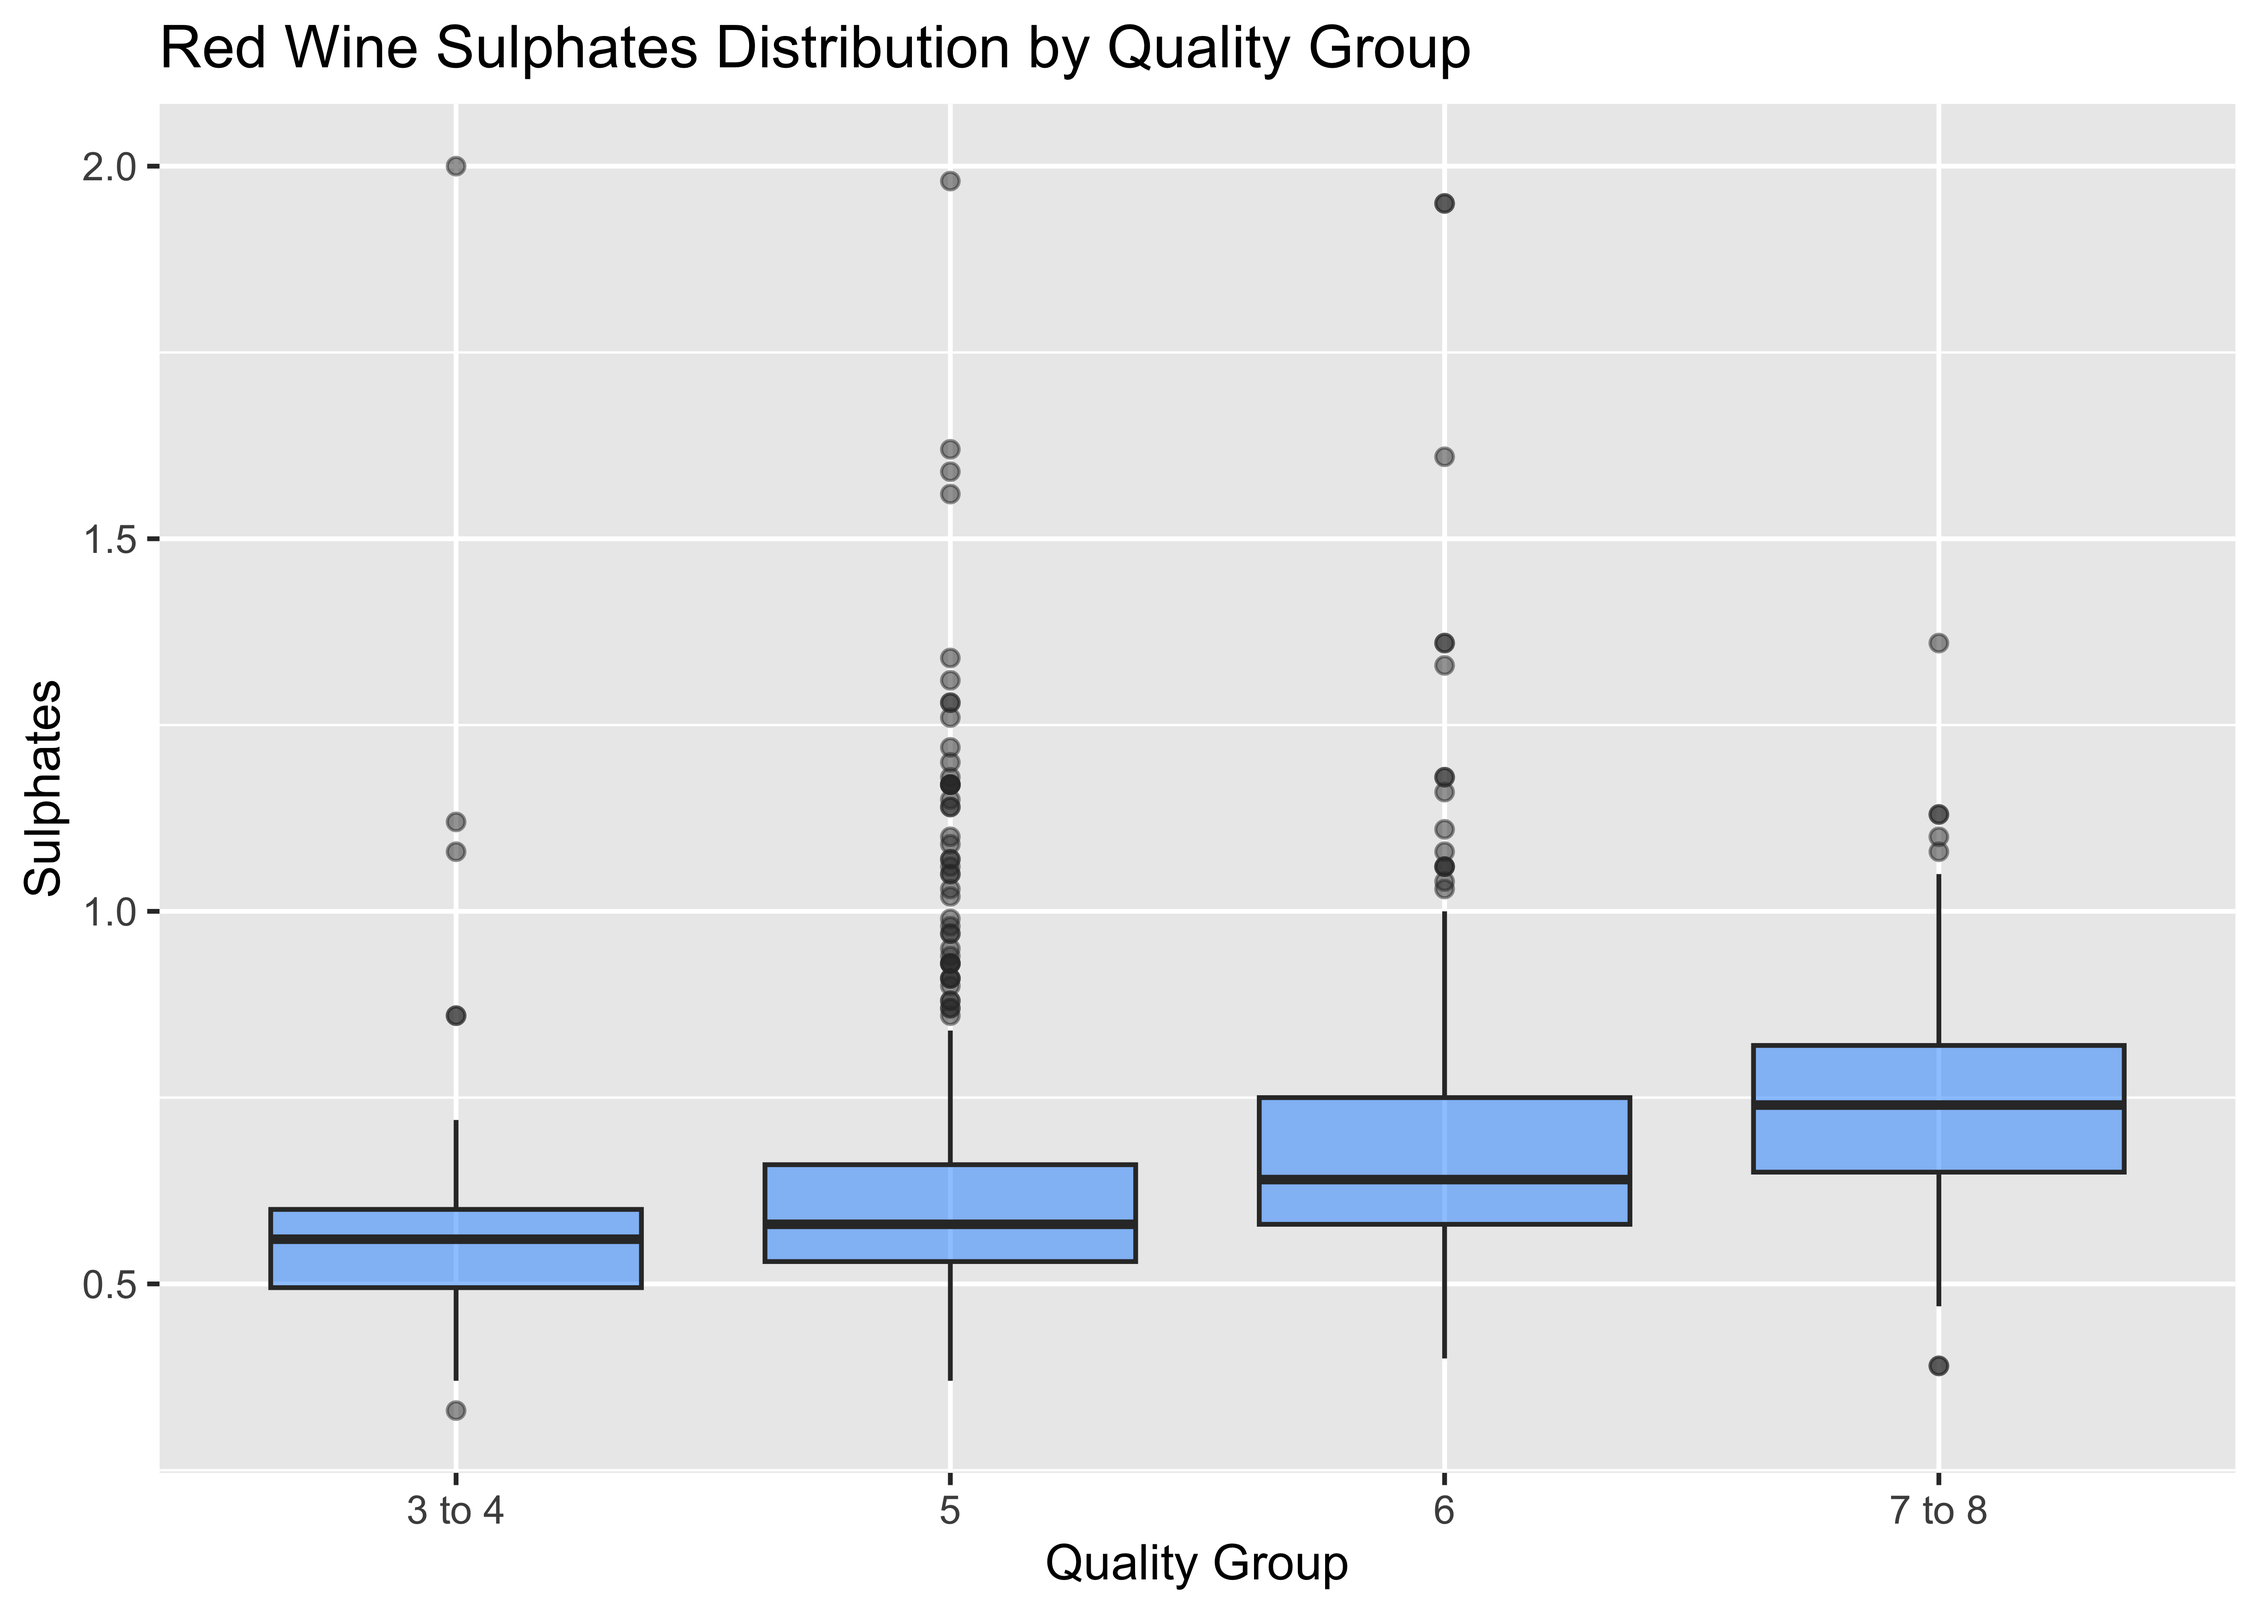
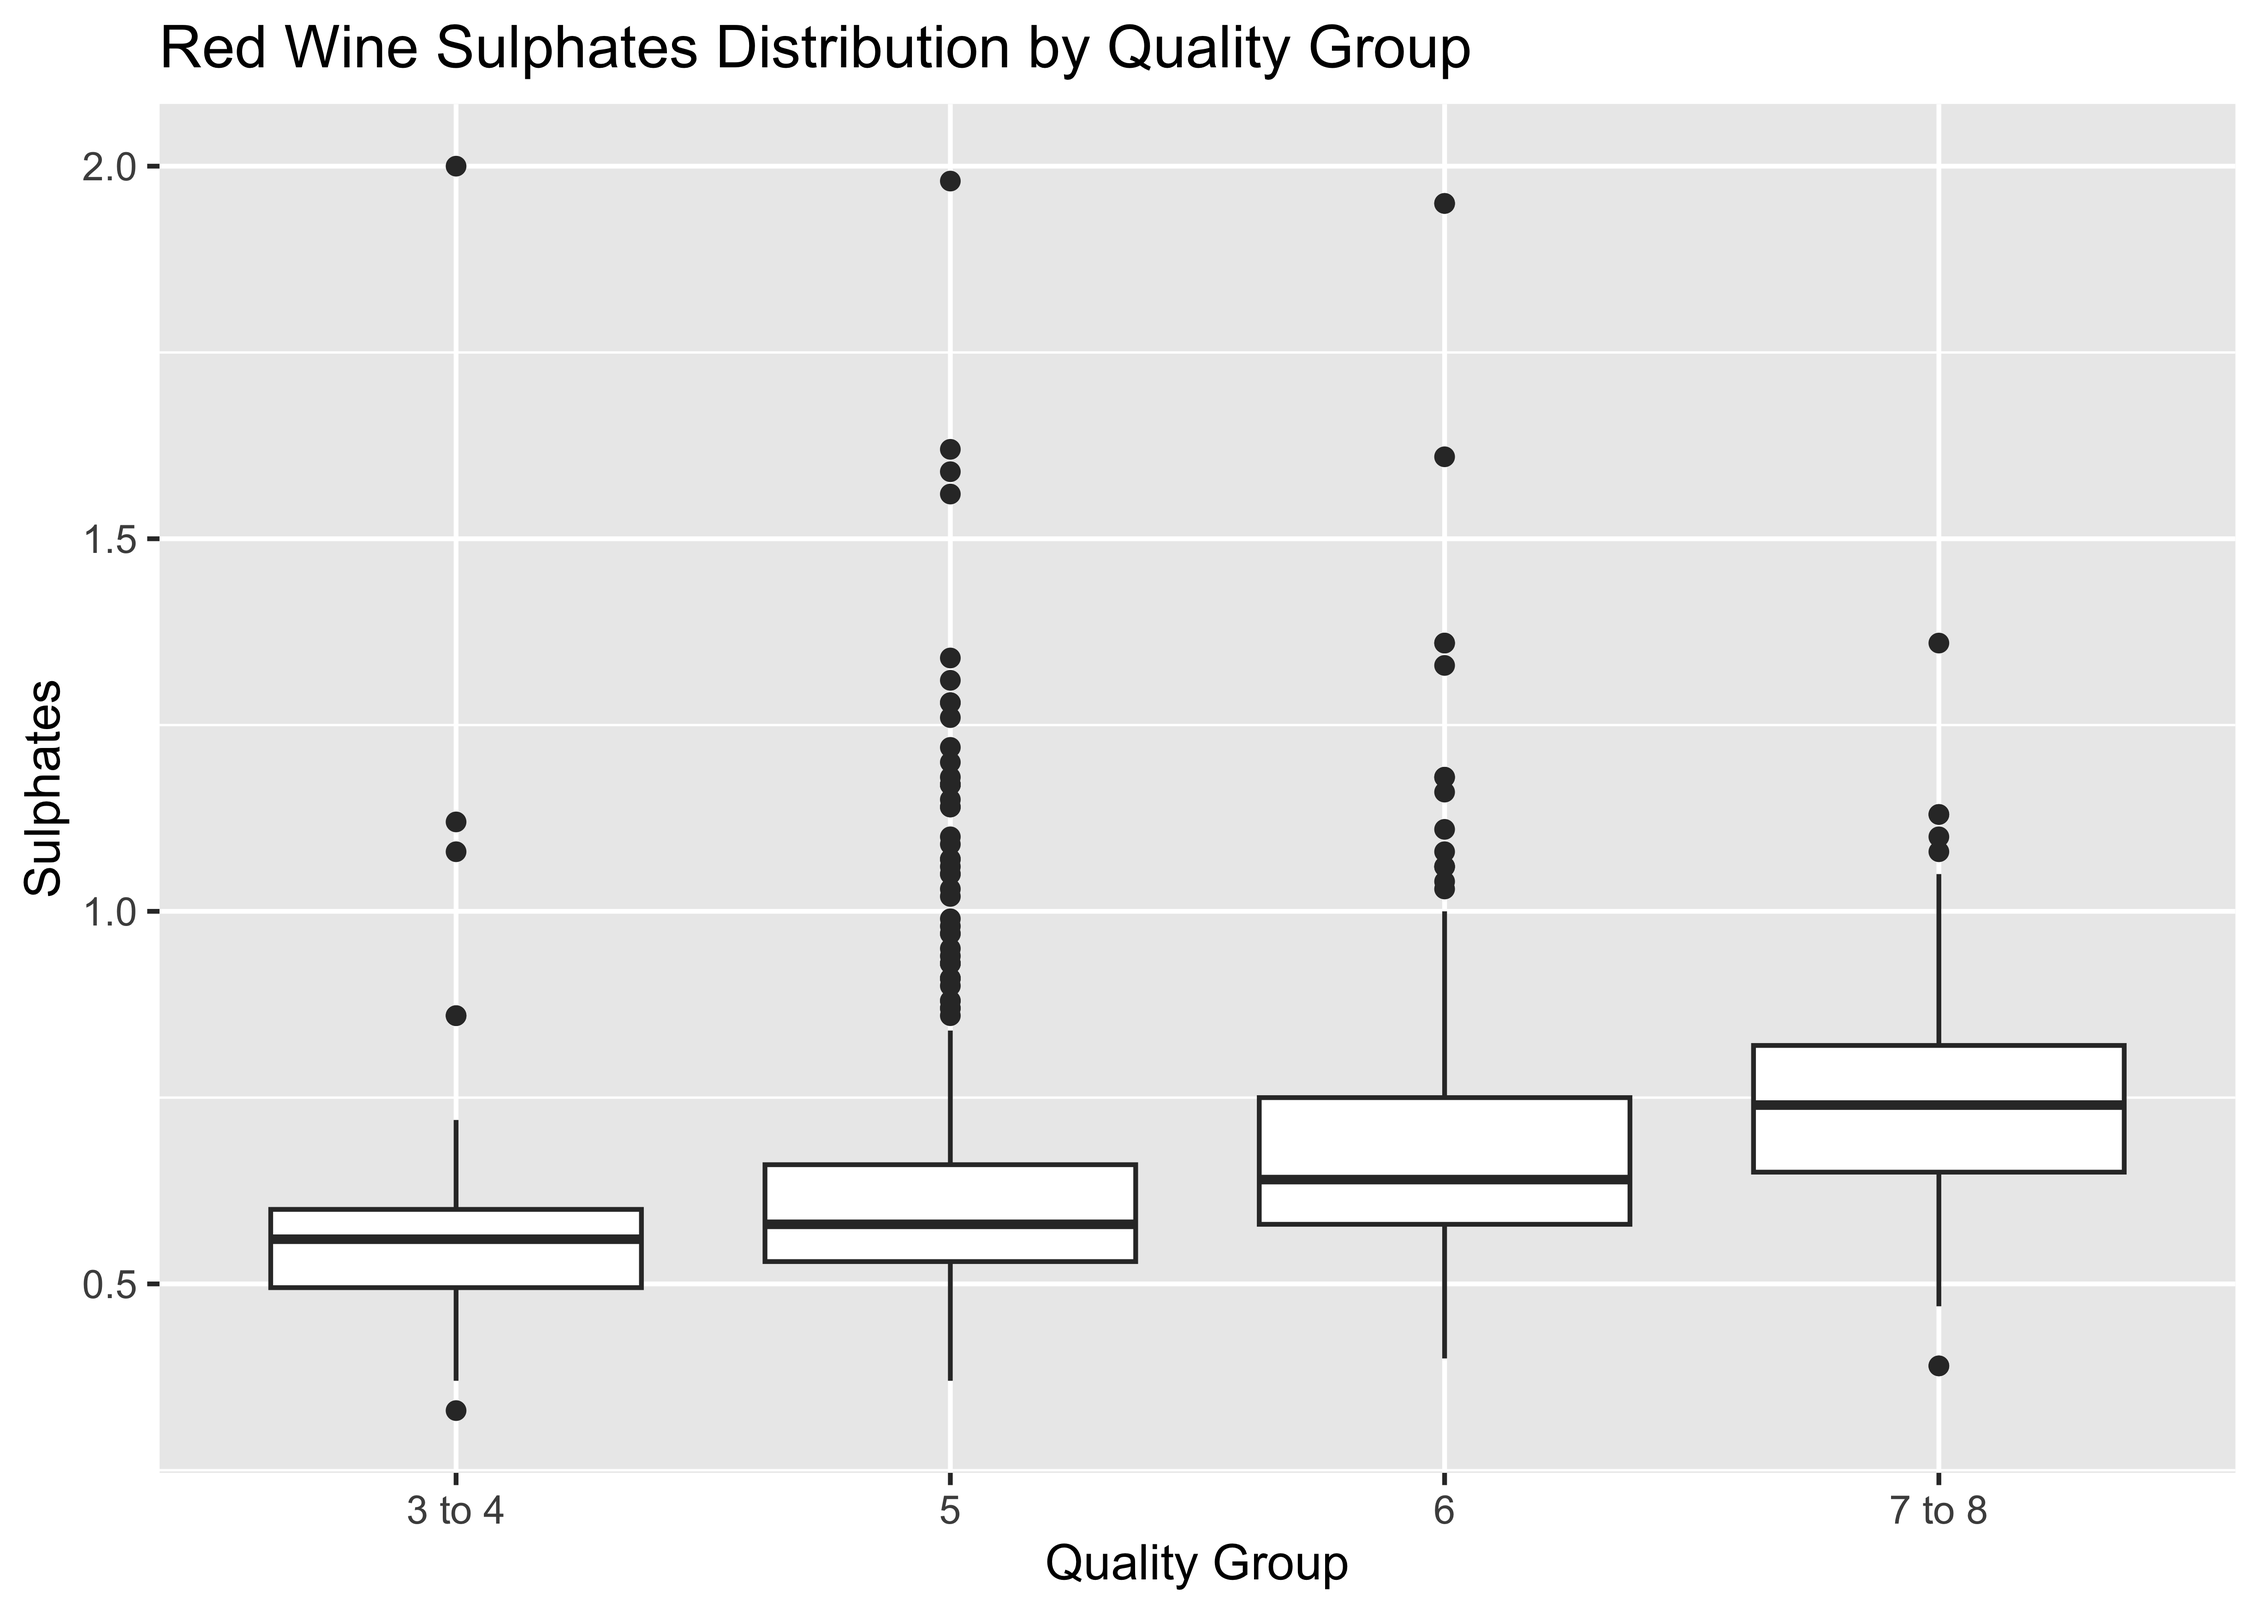
minor updates

diff --git a/4_visualization/intro_to_ggplot2/README.md b/4_visualization/intro_to_ggplot2/README.md
@@ -15,33 +15,32 @@
   ecosystem
 - [package documentation and further learning
   resources](https://ggplot2.tidyverse.org/)
-- works best with tidy data input format (e.g. observations as rows and
-  variables as columns)
+- by default, tidy data input format expected (e.g. observations as rows
+  and variables as columns)
 - pros
-  - open-source and free R package
+  - open-source and free
   - 101 level knowledge can help analysts produce business value quickly
-  - used to produce publication worthy visualizations for tech and
+  - used to output publication worthy visualizations for tech and
     non-tech audiences
   - highly flexible and customizable
   - robust documentation, blog content, and community support (which
     means lots of training data for GenAI tools)
   - high ROI on learning time invested; analysts can use the package
-    across companies (vs paid tools which company A may use but not
-    company B)
+    across companies (vs paid data vis tools which company A may use but
+    not company B)
   - [rich collection of extension
     packages](https://exts.ggplot2.tidyverse.org/gallery/)
-    (e.g. patchwork, gganimate, ggforce, ggtext, etc.)
-  - can be used to produce static and interactive visualizations for
-    wide range of data types (e.g. time series, geospatial, etc.)
+    (e.g. patchwork, gganimate, ggforce, ggtext, etc)
+  - can be used to produce static and interactive visualizations for a
+    wide range of data types (e.g. time series, geospatial, etc)
   - proficient users can produce complex visualizations with a few lines
     of code (often faster than other data vis tools)
 - cons
-  - requires some basic R coding skills (R is known to have a slow /
-    steep learning curve)
+  - often requires some R coding skills for data input prep (R is known
+    to have a slow / steep learning curve)
   - advanced custom plots require deep knowledge of package nuances
     (which can be hard to remember); tools like Github Copilot reducing
     the cognitive load here
-  - setup data shaping/wrangling work needed at times
   - plot outputs to Google Docs or Slides require partially manual
     workflow
   - analyst-to-analyst shareability can be a challenge if the recipient
@@ -79,11 +78,11 @@ for(p in required_packages) {
 
 ## Practice Dataset 1
 
-- wine ratings and chemical properties of Vinho Verde red wine samples
-  from the north of Portugal
+- sample of Vinho Verde red wine ratings and chemical properties
 - UCI ML dataset (more details
   [here](https://archive.ics.uci.edu/ml/datasets/Wine+Quality))
 - code to access and clean the data hidden to keep the focus on ggplot2
+  (visible in notebook source code)
 
 <!-- -->
 
@@ -109,6 +108,7 @@ for(p in required_packages) {
 - quick context building step to get a feel for the dataset
 
 ``` r
+### visually appeal summary
 rw_df %>%
   # approach to quickly produce summary stats
   skimr::skim_without_charts() %>%
@@ -137,7 +137,15 @@ rw_df %>%
 | alcohol              | 10.42 |  1.07 | 8.40 |  9.50 | 10.20 | 11.10 |  14.90 |
 | quality              |  5.64 |  0.81 | 3.00 |  5.00 |  6.00 |  6.00 |   8.00 |
 
+``` r
+### faster way to produce summary stats with 1 line code
+### but less visually appealing output
+# summary(rw_df)
+```
+
 ## Building the Layers Step by Step
+
+- 9 steps to build and save a ggplot2 plot image
 
 1.  pipe (`%>%`) a dataset into ggplot
 
@@ -253,14 +261,14 @@ p1
 
 ![](intro_to_ggplot2_data_vis_files/figure-commonmark/step8-1.png)
 
-9.  save the plot to an image file
+9.  save the plot as an image file
 
 ``` r
 ### saved to working directory
 ggsave("red_wine_quality_group_alcohol_and_va.png", p1, width = 10, height = 6)
 ```
 
-## Starting Point Visualization Use Cases
+## Common Visualization Use Cases
 
 ### Bar Charts
 
@@ -309,7 +317,6 @@ rw_df %>%
   ) +
   ### increase font size of x axis and remove y axis labels and ticks
   theme(axis.text.x = element_text(size = 12),
-        ### drop y axis labels and ticks
         axis.ticks.y = element_blank(),
         axis.text.y = element_blank()) +
   ### add padding/space to y axis 
@@ -329,7 +336,7 @@ rw_df %>%
 ``` r
 rw_df %>%
   ggplot(aes(x = alcohol)) +
-  geom_histogram(binwidth = 0.4, alpha = 0.5, fill = "dodgerblue") +
+  geom_histogram(binwidth = 0.4) +
   labs(title = "Red Wine Alcohol Distribution",
        x = "Alcohol %",
        y = "Count")
@@ -356,7 +363,7 @@ rw_df %>%
              aes(xintercept = mean_alcohol, group = quality_group, 
                  color = "Average Alochol % by Quality Group"),
              linetype = "dashed") +
-  ### scale free_y allows each quality group to have its own y axis scale
+  ### scale free_y allows each quality group to have different y axis scale
   ### useful when group counts vary
   facet_grid(quality_group ~ ., scale = "free_y") +
   ### add padding/space to y axis 
@@ -379,7 +386,7 @@ rw_df %>%
 ``` r
 rw_df %>%
   ggplot(aes(x = quality_group, y = sulphates)) +
-  geom_boxplot(fill = "dodgerblue", alpha = 0.5) +
+  geom_boxplot() +
   labs(title = "Red Wine Sulphates Distribution by Quality Group",
        x = "Quality Group",
        y = "Sulphates")
@@ -422,8 +429,8 @@ custom_boxplot_setup %>%
 - sticking to the wine theme, we’ll use yearly California and US wine
   production [data from the Wine
   Institute](https://wineinstitute.org/our-industry/statistics/california-us-wine-production/)
-- the data is in a table on the website, so we’ll use rvest to scrape
-  the data (thanks to GH Copilot and ChatGPT this is low lift)
+- the data is in a table on the website, so we’ll use the rvest package
+  to scrape the data (thanks to GH Copilot and ChatGPT this is low lift)
 - code to scrape and format the data hidden to keep the focus on ggplot2
   visualization
 
